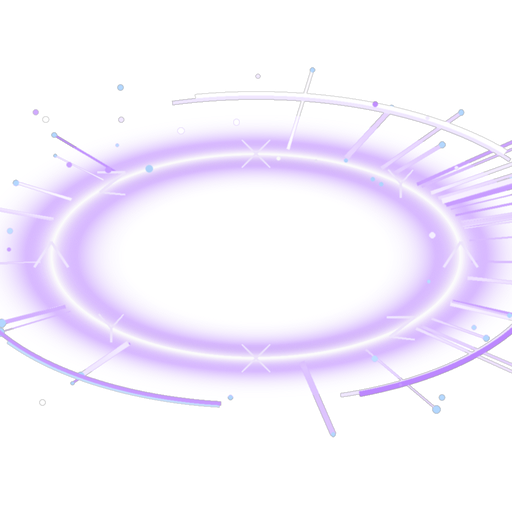
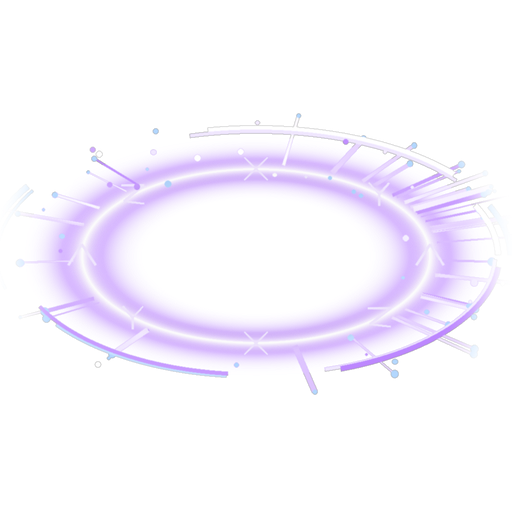
[Fix] 魔尖塔爆氣五件合批：塔打死消失+進度前進 / 開頭訊息 / 環貼地框塔 / 貼圖四角切割痕
一次解決用戶爆氣五件（純視覺+塔死亡狀態修）：
①★塔打死消失+停放招+進度前進：真根因＝塔 setStaticTexture→play('death') no-op→die 的 onComplete 不觸發→塔沒進 isDead。修成靜態貼圖塔 die() 立刻 dead=true + sprite 淡出 destroy（接線 spawner.onTowerDestroyed→notifyTowerDestroyed 本就在 GameScene:276，塔真的死→進度前進）。
②塔波開頭訊息：announceNode 改只守護跳過→塔波發「魔尖塔！打掉尖塔！」。
③環回貼地腳底 + 框住塔。
④貼圖四角切割痕修好（特效手新版）。

## 內容（wholesale cp，md5 全驗符）
- src/systems/WaveSystem.ts（6c2b56de，波騎 86eb83c）：塔波開頭訊息 announceNode。
- tests/eventNodeFramework.test.ts（a21a47ca，波騎 86eb83c）：+2 測。
- src/entities/Enemy.ts（3554c613，征騎 9330159）：靜態塔 die() 立刻 dead=true+淡出 destroy。
- src/systems/CharacterAnimator.ts（a15ed845，征騎 9330159）：加 isStaticTexture()。
- src/systems/EnemySpawner.ts（c66992b8，征騎 9330159）：環回貼地腳底+框住塔。
- public/assets/images/vfx/fx_tower_ring_warning.png + fx_tower_ring_attack.png（特效手四角切割痕修版覆蓋）。

## 驗證
tsc + full build(vite) 綠（2 png 覆蓋版 copy 進 dist）+ 全測 1338 綠。base f92b7c2 乾淨接。

原作者：波騎-波次（86eb83c WaveSystem/test）、征騎-h5（9330159 Enemy/CharacterAnimator/EnemySpawner）、asset 特效手。翼騎代 cp+push。

Changed region(s): [[0.0, 0.125, 1.0, 0.875], [0.2188, 0.1562, 0.25, 0.1875], [0.0625, 0.2188, 0.0938, 0.25]]

diff --git a/src/systems/EnemySpawner.ts b/src/systems/EnemySpawner.ts
@@ -442,34 +442,33 @@ export class EnemySpawner {
         state = createTowerRingState();
         this.towerRingStates.set(e.id, state);
       }
-      // ★視覺/判定圓心分開（異靈定案）：
-      //   視覺 vc = 塔物件視覺中心（塔身中段）→ 環套住塔、塔立在環正中央（美術感）。
-      //   判定 jc = 塔腳底地面點 → 玩家站地面踩環帶被打、命中位置不變（不動 gameplay）。
-      const vc = e.getTowerRingCenter(); // 視覺圓心＝塔物件中段
-      const jc = e.getTowerRingGroundCenter(); // 判定圓心＝塔腳底地面
+      // ★環貼地腳底（用戶爆氣修：先前視覺圓心抬塔身中段=環浮空，改回腳底）：
+      //   視覺 + 判定圓心都用塔腳底地面點 getTowerRingGroundCenter → 環貼地面不浮空、塔立在貼地環正中央。
+      const c = e.getTowerRingGroundCenter(); // 視覺+判定同圓心＝塔腳底地面
       const { enterWarning, enterActive, phase } = tickTowerRingPhase(state, dt, params);
-      // ★最內環 baseRadius 涵蓋塔物件大小：max(preset baseRadius, 塔物件半徑×1.1)→ 最內環從塔邊緣往外包住塔、不穿過塔身。
-      const effectiveBase = Math.max(params.baseRadiusPx, e.getTowerObjectRadius() * 1.1);
+      // ★最內環 baseRadius 放大到「框住整座塔的水平投影」：max(preset baseRadius, 塔物件半徑×1.25)
+      //   → 塔站貼地環正中央、環從塔腳往外貼地擴、最內環框住整座塔（不穿塔身）。baseRadiusPx 可在🗼編輯器調（A2/A3 欄位）。
+      const effectiveBase = Math.max(params.baseRadiusPx, e.getTowerObjectRadius() * 1.25);
       const radius = effectiveBase + state.ringIndex * params.radiusStepPx;
       const thickness = params.halfThicknessPx * 2; // 環帶厚度（與 annulus 判定一致）
 
-      // VFX（用視覺圓心 vc＝塔物件中心，塔在環中央）：warning → towerRingWarning、active → towerRingActive。
+      // VFX（用腳底圓心 c，環貼地、塔立環中央）：warning → towerRingWarning、active → towerRingActive。
       if (enterWarning && params.warningSec > 0) {
-        this.hitFeelFx?.towerRingWarning?.(vc.x, vc.y, radius * 2, thickness, params.warningSec * 1000);
+        this.hitFeelFx?.towerRingWarning?.(c.x, c.y, radius * 2, thickness, params.warningSec * 1000);
       }
       if (enterActive) {
-        this.hitFeelFx?.towerRingActive?.(vc.x, vc.y, radius * 2, thickness, params.ringIntervalSec * 1000);
+        this.hitFeelFx?.towerRingActive?.(c.x, c.y, radius * 2, thickness, params.ringIntervalSec * 1000);
       }
 
       // ★命中判定只在 active phase（warning 零判定，不變量①）。本環對同玩家只扣一次（不變量②）。
-      //   ★判定圓心用 jc（塔腳底地面正圓）＝玩家站地面踩環帶被打、命中位置不變（不隨視覺上抬、不動 gameplay）。
+      //   ★判定圓心＝塔腳底地面 c（跟視覺同圓心）：玩家站地面踩環帶被打、正圓 annulus 真半徑。
       if (phase !== 'active') continue;
       for (const p of this.getAllPlayers()) {
         const pid = p.playerId;
         if (state.hitPlayersThisRing.has(pid)) continue;
         const pc = p.getVacuumCenter?.() ?? p.getHitCenter();
         const pr = p.getVacuumRadius?.() ?? p.getHitRadius();
-        if (ringHitsPlayer(jc, radius, params.halfThicknessPx, pc, pr)) {
+        if (ringHitsPlayer(c, radius, params.halfThicknessPx, pc, pr)) {
           state.hitPlayersThisRing.add(pid);
           const energyRatio = params.energyCost * SECOND_TRANSFORM_CONFIG.energyLossOnHit;
           this.onPlayerRingHit?.(pid, energyRatio); // 沿用非改契約（不變量③）

diff --git a/tests/eventNodeFramework.test.ts b/tests/eventNodeFramework.test.ts
@@ -31,6 +31,21 @@ function makeWave(nodes: unknown[]): WaveSystem {
   return ws;
 }
 
+/** 變體：捕捉 waveMessage 呼叫（測塔波/守護波開頭訊息）。 */
+function makeWaveCapturingMsgs(nodes: unknown[]): { ws: WaveSystem; msgs: string[] } {
+  const msgs: string[] = [];
+  const ws = new WaveSystem(wrap(nodes).levels);
+  const ctx = {
+    effects: { waveMessage: (t: string) => { msgs.push(t); }, fireRainAnnounce: () => {} },
+    spawner: { spawn: () => ({}), clear: () => {} },
+    players: [],
+    player: { getPosition: () => ({ x: 0, y: 0 }) },
+    getEnemies: () => [],
+  } as unknown as Parameters<WaveSystem['init']>[0];
+  ws.init(ctx); // init 進節點 0 → announceNode
+  return { ws, msgs };
+}
+
 beforeEach(() => {
   clearResolvedMineCache();
   clearResolvedTowerCache();
@@ -133,6 +148,18 @@ describe('魔尖塔波狀態 accessor（B5/B6 進度條+倒數）+ towerGate', (
     expect(ws.getTowerWaveDestroyed()).toBe(2);
     ws.update(1); // 倒數遞減
     expect(ws.getTowerWaveRemaining()).toBeLessThan(rem0);
+  });
+});
+
+describe('塔波登場開頭訊息（announceNode 對 tower 節點發 waveMessage，用戶爆氣修）', () => {
+  it('進 Tower4 節點 → 發「魔尖塔！打掉尖塔！」開頭訊息（之前被 announceNode gate 掉）', () => {
+    const { msgs } = makeWaveCapturingMsgs([{ nodeType: 'Event', eventPresetName: 'Tower4' }]);
+    expect(msgs.some((m) => m.includes('魔尖塔'))).toBe(true);
+  });
+
+  it('進 Guard60 守護波 → 不發節點 waveMessage（有自己開場序列，避免重疊）', () => {
+    const { msgs } = makeWaveCapturingMsgs([{ nodeType: 'Event', eventPresetName: 'Guard60' }]);
+    expect(msgs.length).toBe(0);
   });
 });
 

diff --git a/src/systems/WaveSystem.ts b/src/systems/WaveSystem.ts
@@ -566,12 +566,14 @@ export class WaveSystem implements GameSystem {
   private announceNode(): void {
     const node = this.currentNode();
     if (!node) return;
-    // 守護波 Event 節點（eventPresetName 非火雨 preset＝守護 preset）：不發節點宣告 waveMessage——
-    //   守護波有自己的開場序列（GuardEvent timedEventText「限時事件」→嚴格接續「協力合作，守護雕像」），
-    //   再發節點宣告會與限時事件同時顯示重疊（用戶回報）。純火雨 Event / Spawn 照發。
+    // 守護波 Event 節點：不發節點宣告 waveMessage——守護波有自己的開場序列
+    //   （GuardEvent timedEventText「限時事件」→嚴格接續「協力合作，守護雕像」），再發節點宣告會重疊（用戶回報）。
+    // ★塔波/火雨/一般事件都要發（塔波沒有等價開場序列，之前被一併跳過→塔波缺開頭訊息，用戶爆氣）：
+    //   只有「守護 preset」（既非火雨 preset、也非塔 preset）才 return；tower/火雨→發 waveMessageFor 對應提示。
     if (node.nodeType === 'Event') {
       const en = (node as { eventPresetName?: string }).eventPresetName;
-      if (en && !isResolvedFireRainPreset(en)) return; // 守護波 → 跳過節點宣告
+      const isGuardPreset = !!en && !isResolvedFireRainPreset(en) && !isResolvedTowerPreset(en);
+      if (isGuardPreset) return; // 守護波 → 跳過節點宣告（有自己開場）
     }
     if (node.nodeType === 'Spawn') this.spawnWaveNumber += 1; // 累計波序（跨關）
     const text = waveMessageFor(node, this.spawnWaveNumber);

diff --git a/src/entities/Enemy.ts b/src/entities/Enemy.ts
@@ -1069,6 +1069,18 @@ export class Enemy implements Hittable {
       x: this.anim.sprite.x,
       y: this.anim.sprite.y,
     }); // 擊殺事件 + 傷害歸屬 + 死亡位置(能量飛光起點)
+    // ★靜態貼圖（尖塔）：anim.play() 是 no-op → death 動畫的 onComplete 不會觸發、dead 永遠不會設 true
+    //   （＝塔打死不消失、還放招、進度不動的根因）。★立刻設 dead=true（下一幀即從 enemies filter 掉→停放招+
+    //   onTowerDestroyed 通知進度++），sprite 淡出後銷毀（純視覺，與 dead 判定解耦）。
+    if (this.anim.isStaticTexture?.()) {
+      this.dead = true;
+      const sp = this.anim.sprite;
+      sp.scene.tweens.add({
+        targets: sp, alpha: 0, duration: 220, ease: 'Sine.easeIn',
+        onComplete: () => this.anim.destroy(),
+      });
+      return;
+    }
     this.anim.play('death', {
       force: true,
       onComplete: () => {

diff --git a/src/systems/CharacterAnimator.ts b/src/systems/CharacterAnimator.ts
@@ -56,6 +56,11 @@ export class CharacterAnimator {
     this.sprite.setFlipX(false);
   }
 
+  /** 是否為靜態貼圖模式（尖塔）：play() 為 no-op，故死亡等靠 onComplete 的流程不會觸發（呼叫端需自行處理）。 */
+  isStaticTexture(): boolean {
+    return this.staticTexture !== null;
+  }
+
   constructor(scene: Phaser.Scene, charKey: string, x: number, y: number) {
     this.charKey = charKey;
     // 用該角色第一張 idle 幀當初始貼圖。
